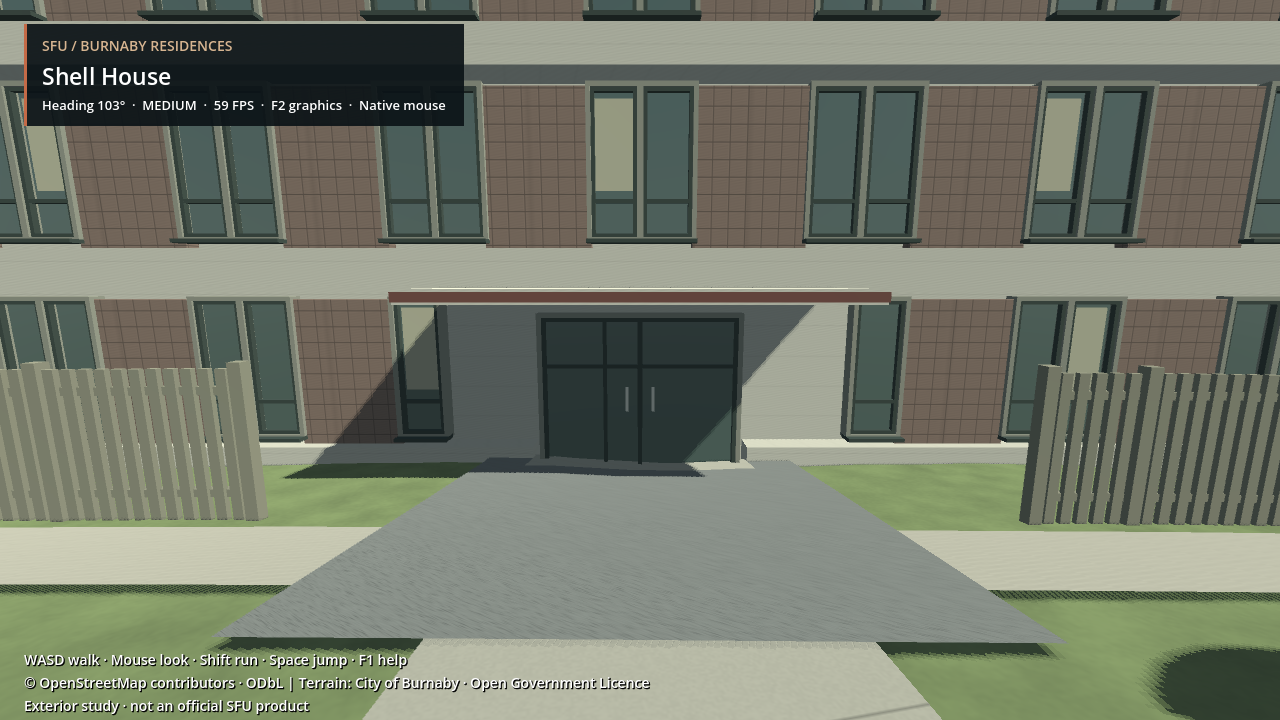
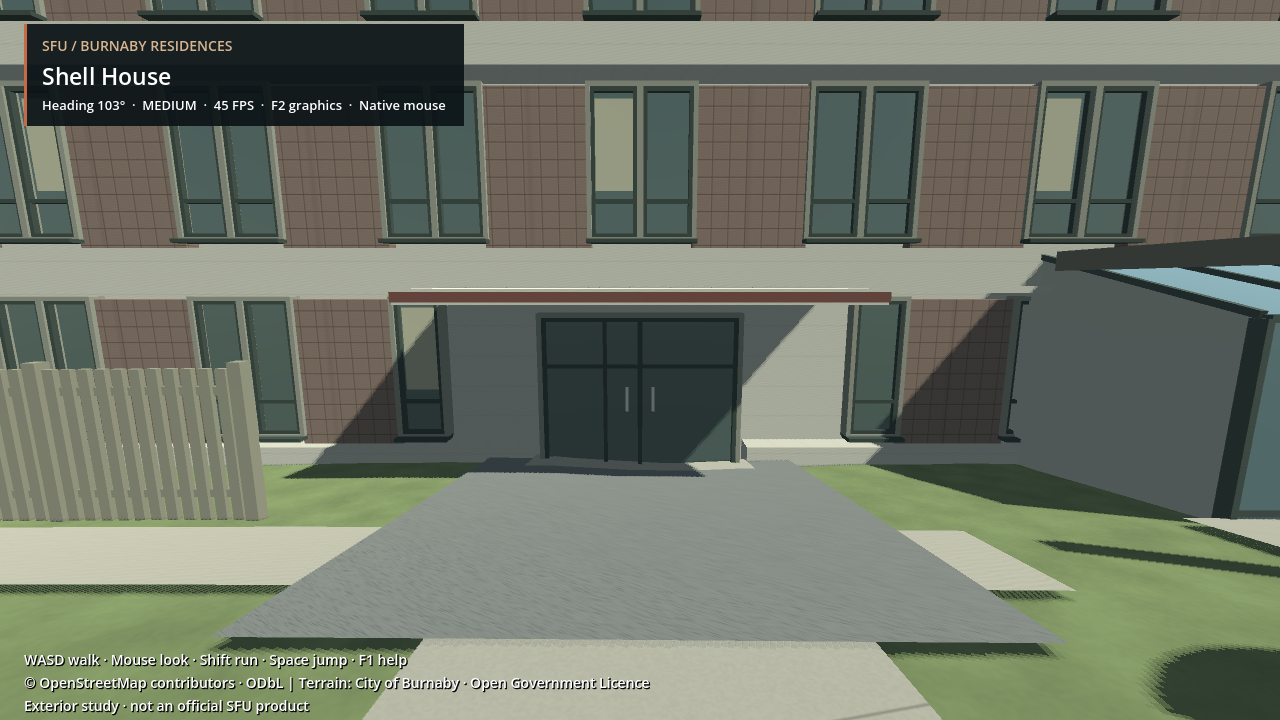
Add photo-supported Shell emergency phone exterior detail

Changed region(s): [[0.6562, 0.3056, 1.0, 0.8556]]

diff --git a/docs/PHASE2_HANDOFF.md b/docs/PHASE2_HANDOFF.md
@@ -1,3 +1,5 @@
+> **Latest resume point — 2026-10-21:** McTaggart west connector verified in1622eee:284 physics,376 terrain parity,506 route checkpoints. Shell photo emergency-phone detail subsequently GPU-inspected. Read the final two entries below, then PHASE2_COMPLETION_AUDIT.md; historical “in progress” entries are superseded where a later verified entry exists. Next priority: Courtyard forecourt-to-road grade transition (up to4.4m estimated fill, needs current photo/level reconciliation); then Shell surrounding stairs, remaining sports fixtures, townhouse annex identities and performance. Preserve approved E/W, input, registry and user photo metadata changes.
+
 # Phase 2 handoff — 2026-10-18
 
 ## Resume
@@ -130,3 +132,6 @@ The first integration passed284 physics checks and376 terrain parity samples, bu
 ## VERIFIED McTaggart west-connector approach — 2026-10-21
 Full verify_game.sh passed284 physics checks,376 terrain parity samples,506 route checkpoints with zero failures. Fixed rail/landing crossing and lower slab lip without changing original route points. Final flight3.0–5.8m from door,3.4m wide; source-derived upper6.337m and unchanged entry5.282m. Dimensions remain estimated. Final mchentry_0/1/2 GPU captures inspected; world-space concrete removes repeated box-UV artifacts. Runtime/family/photo validators passed. Original East/West master, input stack,19-building registry/source contours/pads preserved. Four-total/three-visible floor mismatch and exact curved lobby geometry remain unresolved. Performance broad views remains below target (roughly18–27FPS, concurrent verification can affect timings).
 Reproduce: bash scripts/verify_game.sh; bash scripts/run_game.sh -- --capture-mchentry. Next: finish Shell blue emergency-phone visual verification (ShellCourtyard.gd current uncommitted detail); then Courtyard road tie-in and remaining landscape/field accuracy in completion audit.
+
+## Shell photo detail verified — 2026-10-21
+Added decorative blue emergency-phone column/panel, amber band and light mast in front of the north timber screen, directly observed in handpicked Shell.jpg. Exact XZ/size estimated; no interactions, point lights or collision changes. Added second capture-shellmain eye-level view; shellmain_1 inspected, column grounded and clear of existing walk/table. Final GPU launch uses GTX1650 Compatibility. Full physics/routes baseline remains McTaggart checkpoint1622eee (284/376/506); this following detail changes visuals only, not physics. Remaining Shell stairs/grade/three-visible-floor issue unchanged.

diff --git a/docs/PHASE2_COMPLETION_AUDIT.md b/docs/PHASE2_COMPLETION_AUDIT.md
@@ -19,7 +19,7 @@ Latest user instruction: work through all deferred remarks; preserve accepted ge
 | Courtyard inner gallery | Lower court-facing recess, piers, soffit fins, closed rear glazing, grey pavers added; physical entry/crossing/exit passed. Dimensions estimated | Verified first pass |
 | Courtyard West Mall bridge | South-facing glazed exterior link now tied to mapped West Mall parkade edge; inspected/physics passed. Exact attachment and far-end support provisional; full parkade unmodeled | Verified first pass |
 | Courtyard landscape/upper details | Eastern pavers/curbs/four young trees added; road tie-in, lowrise terrace/penthouse and precise entrance mapping remain | Partial |
-| Shell surrounds | North timber screen/concrete tables retained; glazed annex/sloped roof/timber pergola added from Shell.jpg with11point walk test. Exact surrounding stairs/grade/trees still pending | Partial |
+| Shell surrounds | North timber screen/concrete tables retained; glazed annex/sloped roof/timber pergola added from Shell.jpg with11point walk test. Photo-based blue emergency-phone/light added and eye-level inspected. Exact surrounding stairs/grade/trees still pending | Partial |
 | Shell grade/entry | Mapped main entry6925149272 implemented on long west frontage with asphalt approach;7point route passed. Four total vs three visible floors and corner screen remain unresolved | Partial |
 | McTaggart approach | User confirms west connector closer to East Tower. Fitted photo entry, descending stair/rails,52-sample local grade, boulders/planting and route tie-in;284 physics/506 routes pass. Exact curved lobby and three-visible/four-total floor conflict remain | Verified estimated approach |
 | East/West site | Approved facades frozen. Two adjacent hoops, three terraces, mapped switchback ramp/stairs, picnic tables and lower descent now implemented;279 physics/495 routes pass. Exact finishes, orientation and heights estimated; user topology confirmed | Verified provisional landscape |

diff --git a/docs/PHASE2_STATUS.md b/docs/PHASE2_STATUS.md
@@ -134,3 +134,6 @@ Shell detail in progress: handpicked Shell.jpg confirms blue emergency-phone col
 ## VERIFIED McTaggart west-connector approach — 2026-10-21
 Full verify_game.sh passed284 physics checks,376 terrain parity samples,506 route checkpoints with zero failures. Fixed rail/landing crossing and lower slab lip without changing original route points. Final flight3.0–5.8m from door,3.4m wide; source-derived upper6.337m and unchanged entry5.282m. Dimensions remain estimated. Final mchentry_0/1/2 GPU captures inspected; world-space concrete removes repeated box-UV artifacts. Runtime/family/photo validators passed. Original East/West master, input stack,19-building registry/source contours/pads preserved. Four-total/three-visible floor mismatch and exact curved lobby geometry remain unresolved. Performance broad views remains below target (roughly18–27FPS, concurrent verification can affect timings).
 Reproduce: bash scripts/verify_game.sh; bash scripts/run_game.sh -- --capture-mchentry. Next: finish Shell blue emergency-phone visual verification (ShellCourtyard.gd current uncommitted detail); then Courtyard road tie-in and remaining landscape/field accuracy in completion audit.
+
+## Shell photo detail verified — 2026-10-21
+Added decorative blue emergency-phone column/panel, amber band and light mast in front of the north timber screen, directly observed in handpicked Shell.jpg. Exact XZ/size estimated; no interactions, point lights or collision changes. Added second capture-shellmain eye-level view; shellmain_1 inspected, column grounded and clear of existing walk/table. Final GPU launch uses GTX1650 Compatibility. Full physics/routes baseline remains McTaggart checkpoint1622eee (284/376/506); this following detail changes visuals only, not physics. Remaining Shell stairs/grade/three-visible-floor issue unchanged.
